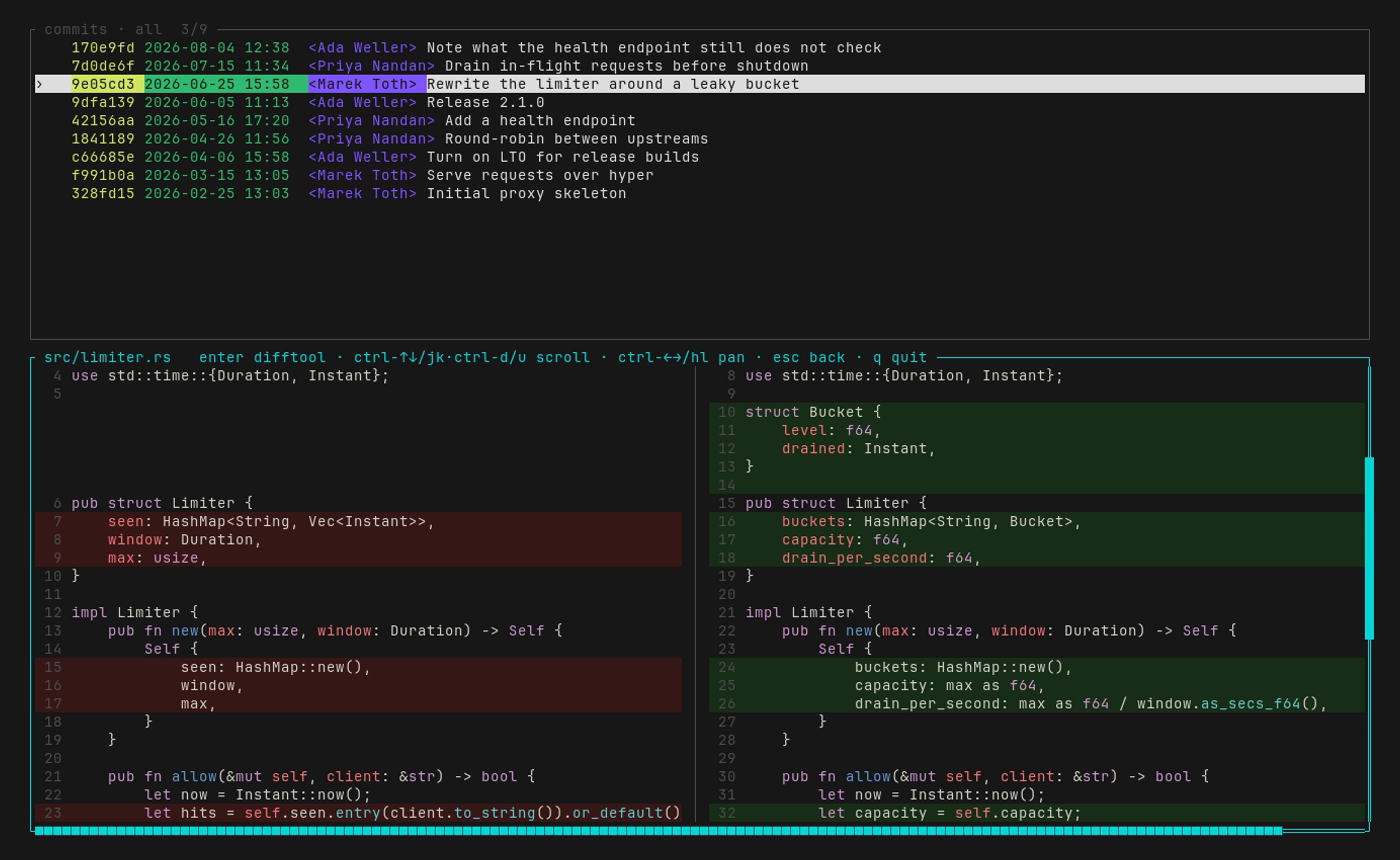
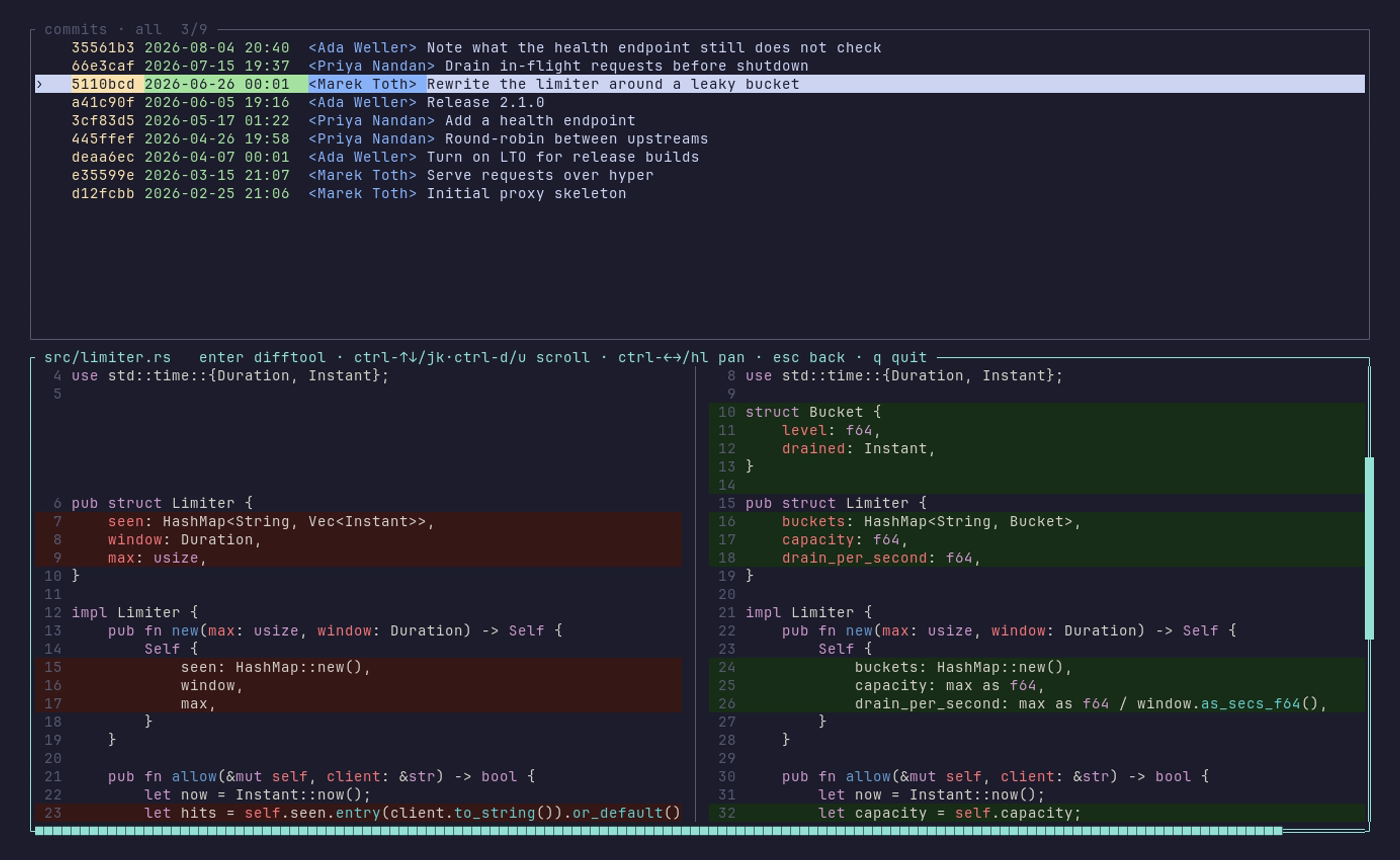
chore: standardise the demo rigs and re-render every readme asset

diff --git a/AGENTS.md b/AGENTS.md
@@ -52,6 +52,9 @@ Working brief for an AI coding agent, not documentation for people (the README c
 - Run the debug binary directly as `./target/debug/slu <cmd>` (there is no dev.sh).
 - Unit tests live in a `#[cfg(test)] mod tests` inside the file they cover (`commands/ilog.rs`, `commands/iscan.rs`), plus `tests/readme.rs`; all of it is pure logic, since the TUIs have none.
 - `cd demo && ./render.sh` re-renders every README asset (needs `vhs`, `ttyd` and `ffmpeg` on PATH); `./render.sh <tape>` does one of `sleuth` / `repos` / `history` / `status` / `branches` against a freshly staged world. `./stage.sh up` then `./stage.sh shell` drops you in that world by hand, which is also the fastest way to try a TUI against interesting fixtures; `./stage.sh down` deletes it.
+- The demo rig is standardised across every crate in this directory, and the three parts that make the frames match must stay identical: the staged shell wears the invented `user@host` prompt written by `write_demorc`, every tape sets `Set Theme "Catppuccin Mocha"` (VHS's own default is a near-black that is harsher to read than Catppuccin's `#1e1e2e`), and every tape sets `Set FontFamily "JetBrainsMono NF"`. It is not about hiding a username, which is no leak - the pictures are a build output, and one that comes out different on every machine that regenerates it is not reproducible.
+- Everything staged runs under `env -i` with a complete allowlist, never the real environment plus overrides, because an exported variable nobody thought of is exactly how a real config dir, a real endpoint or a real key ends up in a frame. The rig also writes only inside the stage, so nothing of the renderer's is touched on disk.
+- Teardown goes through `assert_safe_to_delete`, word-for-word the same function in every crate's rig: the stage path must be absolute, must not be a system directory or the renderer's home, must resolve through its symlinks to a tree carrying the marker file the build stamped, and must have nothing mounted under it, with `rm -rf --one-file-system` behind that. Test the refusals after touching them, never just the happy path - an sshfs mount inside a staged home, torn down with a plain `rm -rf`, has already deleted the dotfiles on the machine at the far end.
 
 ## Overview
 `sluuz` is a Rust CLI on crates.io that is a **git superset**: the binary is `slu` (a 3-letter stand-in for `git`). Anything git understands is passed straight through to real git; on top, `slu` adds cross-repo management, history/secret search, a prettier log, and interactive TUIs. Crate `sluuz`, binary `slu`, AGPL-3.0-only.

diff --git a/README.md b/README.md
@@ -169,18 +169,6 @@ Code's *Keyboard Shortcuts (JSON)*, bind `ctrl+j` and `ctrl+k` with
 `"when": "terminalFocus"` to `workbench.action.terminal.sendSequence`, the
 sequence being the JSON escape backslash-u-001b then `[1;5B` and `[1;5A`.
 
-## The pictures
-
-Every clip and screenshot above is rendered by [VHS](https://github.com/charmbracelet/vhs)
-from the rig in `demo/`, against six invented repositories it builds and throws
-away. It redirects `HOME` and every XDG variable into `demo/home`, so it cannot
-see or touch your repos or your git config.
-
-```bash
-cargo build --release
-cd demo && ./render.sh
-```
-
 ## License
 
 AGPL-3.0-only
